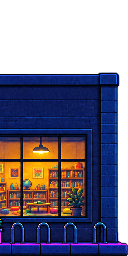
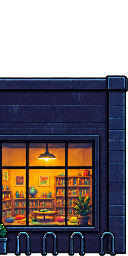
fix(art): match library facade to Night City palette without floor tiles

diff --git a/assets/objects/night-city-buildings/library/README.md b/assets/objects/night-city-buildings/library/README.md
@@ -1,5 +1,5 @@
 # Bry's Library facade
 
-Four placeable, non-colliding facade panels, left to right: `left.png` (192×256), `wall_bay.png` (160×256), `front_bay.png` (160×256), and `right.png` (128×256). Together they form a 640×256 building with a bare roof, varied lit window interiors, planters, a trash can and bike racks. The BRY'S LIBRARY sign is part of the entrance panel. The powered BOOKS wall sign is a separate Builder object in `night-city-props/book-sign`.
+Four placeable, non-colliding facade panels, left to right: `left.png` (192×256), `wall_bay.png` (160×256), `front_bay.png` (160×256), and `right.png` (128×256). Together they form a 640×256 building with a bare roof, varied lit window interiors, planters, a trash can and bike racks. The wall palette follows the Night City warehouse's muted blue-violet steel, while the BRY'S LIBRARY sign remains part of the entrance panel. The powered BOOKS wall sign is a separate Builder object in `night-city-props/book-sign`.
 
-`source.png` is the generated master. Run `scripts/build_library_panels.py` to regenerate the panels and `preview_stitched.png`. Palette and composition follow the supplied library screenshot. This pack does not modify Level 1.
+`source.png` is the generated master. Run `scripts/build_library_panels.py` to regenerate the panels and `preview_stitched.png`. The panels have no baked sidewalk or rooftop floor tile; place them on the game's existing tiles. This pack does not modify Level 1.
